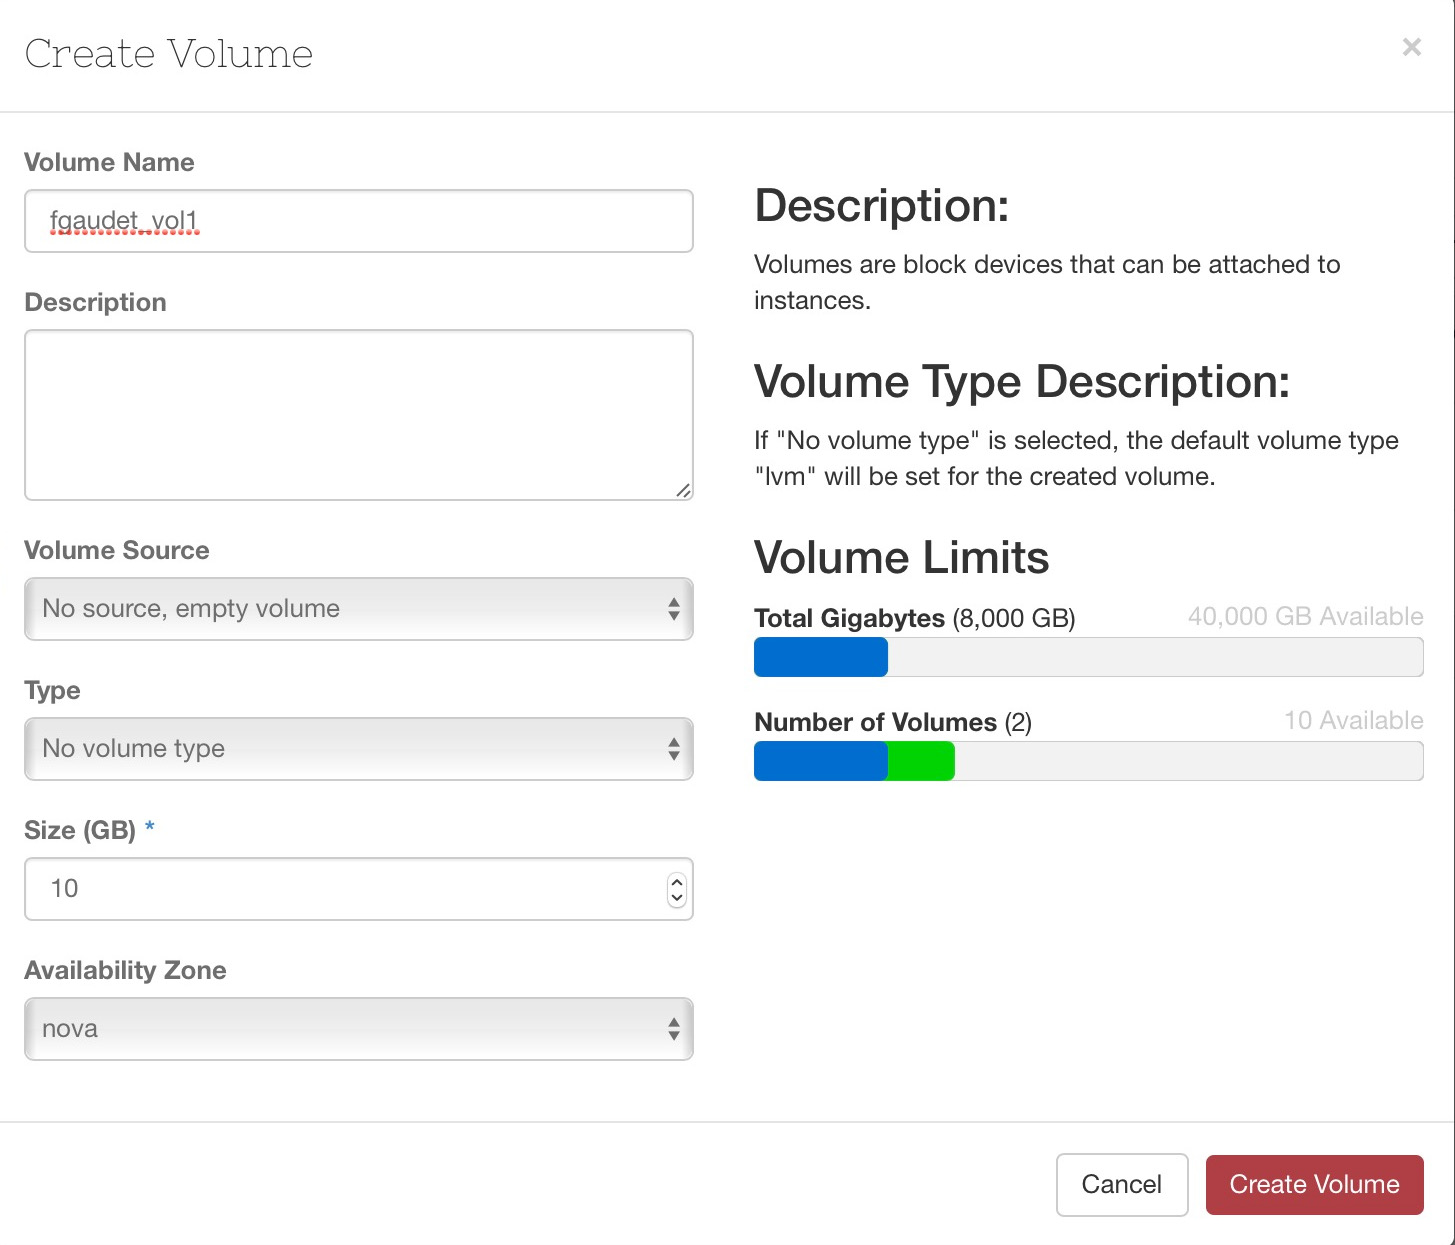
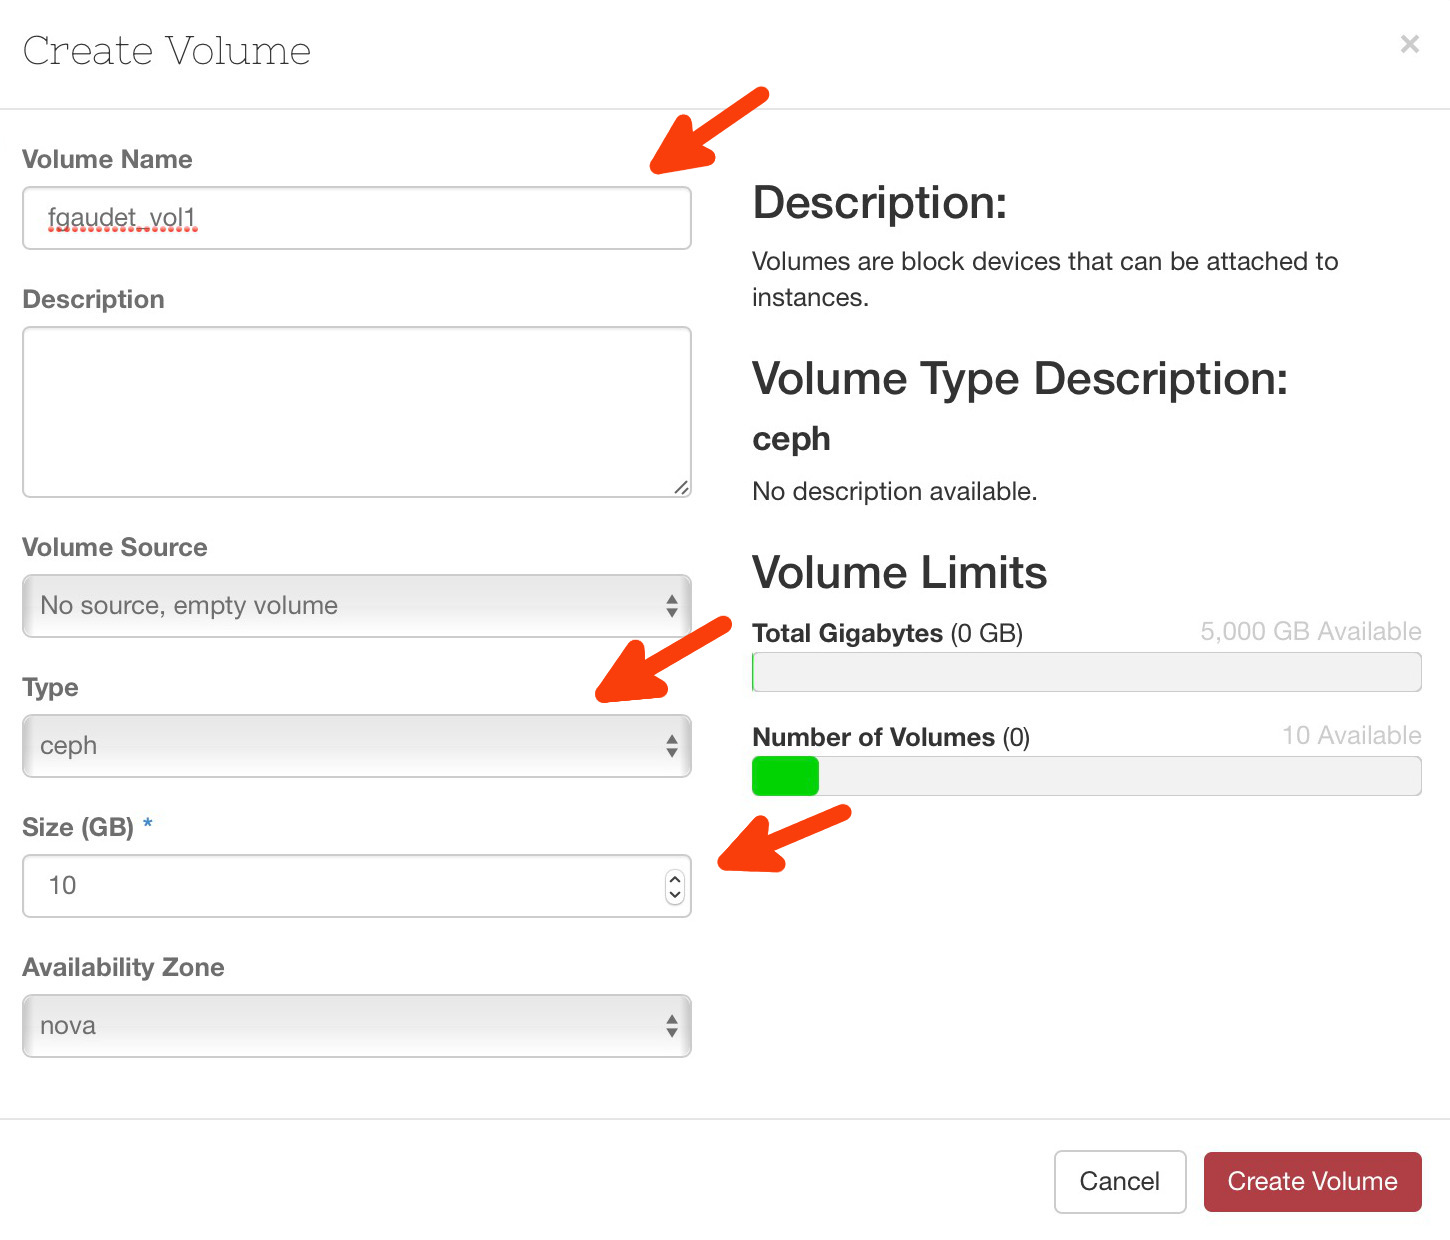
Rewrite create volume article (ceph)

diff --git a/bloc_storage/creer-volume.md b/bloc_storage/creer-volume.md
@@ -4,7 +4,12 @@ Pour créer un volume, il suffit de cliquer sur le bouton 'Create volume'.
 
 ![Local Image](./images/volume-01.jpg)
 
-Peu d'informations à saisir dans l'écran suivant : citons principalement le nom que vous allez donner au volume, ainsi que sa taille. Aujourd'hui nous n'avons qu'un seul backend de stockage, nous laissons donc les autres paramètres avec leur valeur par défaut.
+Peu d'informations à saisir dans l'écran suivant : citons principalement le nom que vous allez donner au volume, sa taille et enfin le type de stockage. Ces derniers sont au nombre de deux :
+
+* ceph
+* ceph-noreplica
+
+Le type 'ceph' pointe sur un pool répliqué sur le cluster de stockage, alors que le type 'ceph-noreplica' comme son nom l'indique pointe sur un pool non répliqué sur le même cluster. Ainsi vous bénéficiez du maximum d'espace disque disponible, mais sans sécurité.
 
 ![Local Image](./images/volume-02.jpg)
 
@@ -12,13 +17,15 @@ Peu d'informations à saisir dans l'écran suivant : citons principalement le no
 
 Maintenant que notre volume est créé, vous voulez certainement l'attacher à une VM. Ouvrez le menu, et choisissez l'option 'Manage attachement'.
 
+![Local Image](./images/volume-04.jpg)
+
 Sélectionnez la VM à laquelle vous allez attacher le volume dans la liste déroulante. Notez que vous ne pouvez attacher votre volume qu'à une seule VM à la fois.
 
-![Local Image](./images/volume-03.jpg)
+![Local Image](./images/volume-05.jpg)
 
 Si tout se passe bien, l'interface indique que le statut du volume est 'In-use' et le nom du périphérique utilisé sur la VM. Ici /dev/vdb.
 
-![Local Image](./images/volume-05.jpg)
+![Local Image](./images/volume-06.jpg)
 
 A présent, connectez vous sur votre VM et ...
 
